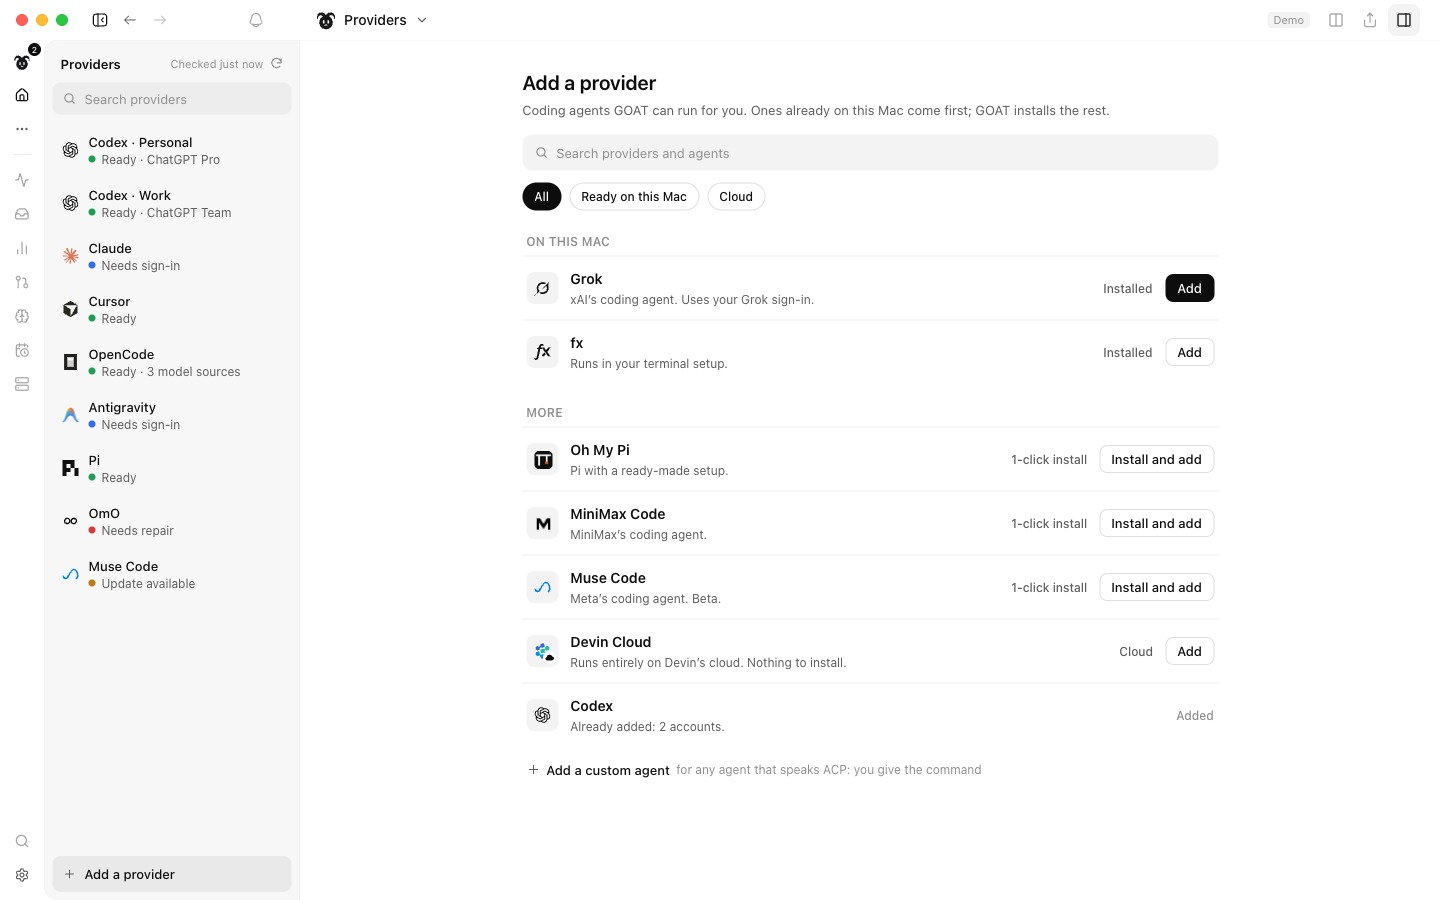
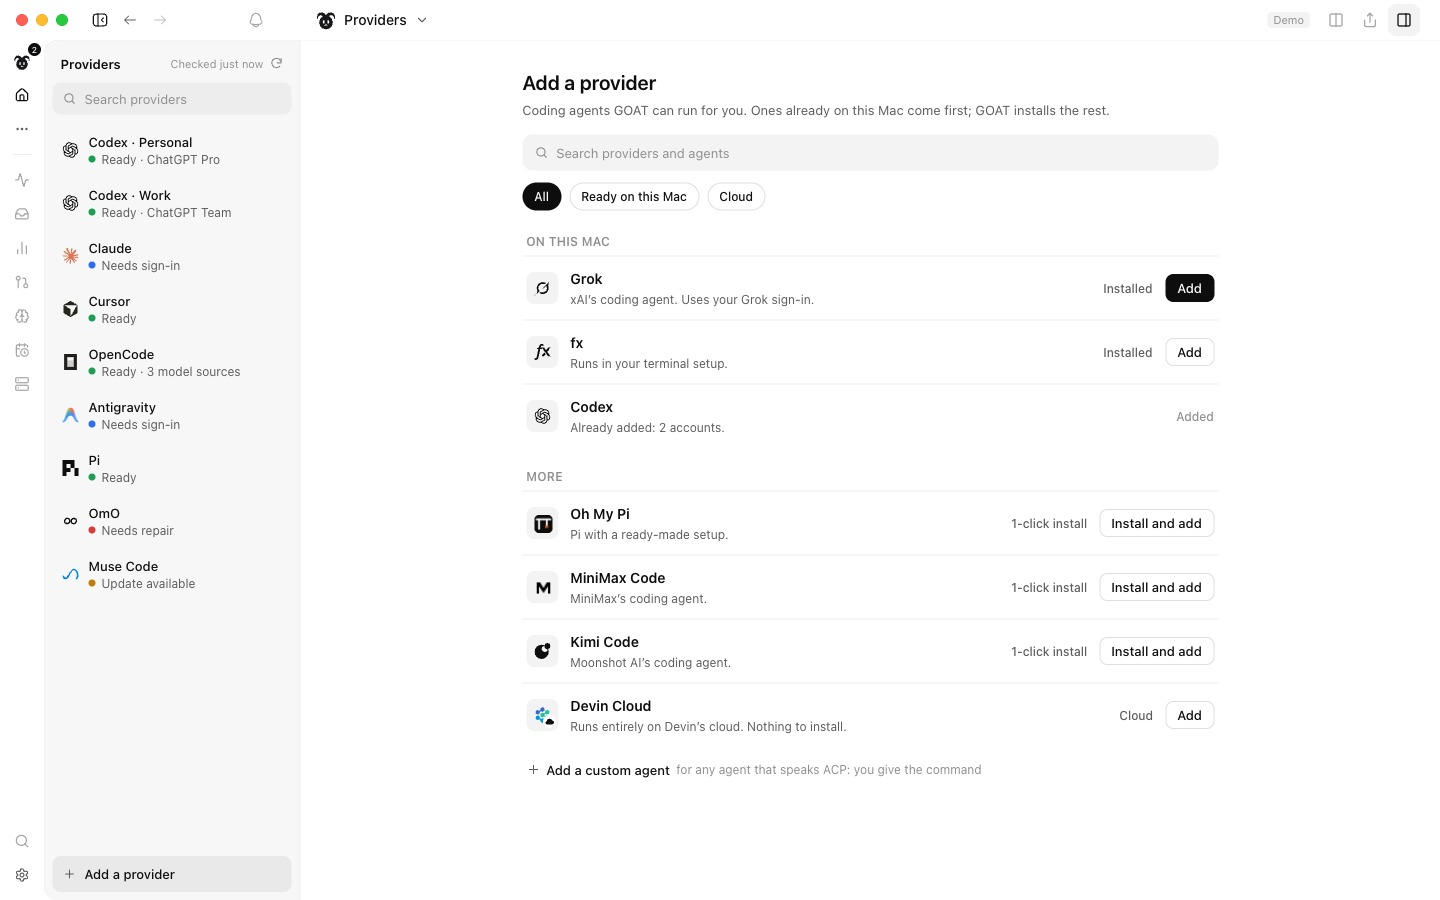
design: P3 catalog lists only not-added agents under More (Kimi Code replaces Muse Code); added Codex row moves to On this Mac

diff --git a/design/paper/part2/1QAN-2.jsx b/design/paper/part2/1QAN-2.jsx
@@ -518,6 +518,28 @@
                       </div>
                     </div>
                   </div>
+                  <div style={{ alignItems: 'center', borderTopColor: '#F0F0F0', borderTopStyle: 'solid', borderTopWidth: '1px', boxSizing: 'border-box', display: 'flex', gap: '12px', paddingBlock: '12px', paddingInline: '4px' }}>
+                    <div style={{ alignItems: 'center', backgroundColor: '#F3F3F3', borderRadius: '8px', boxSizing: 'border-box', display: 'flex', flexShrink: '0', height: '32px', justifyContent: 'center', width: '32px' }}>
+                      <div style={{ boxSizing: 'border-box', display: 'flex', flexShrink: 0, height: '16px', width: '16px' }}>
+                        <div style={{ alignItems: 'center', borderRadius: '4px', boxSizing: 'border-box', display: 'flex', flexShrink: '0', height: '16px', justifyContent: 'center', width: '16px' }}>
+                          <svg aria-hidden="true" viewBox="100 100 411 411" width="16" height="16" xmlns="http://www.w3.org/2000/svg" style={{ width: '16px', height: '16px', flexShrink: '0', display: 'inline-block' }}>
+                            <path fillRule="evenodd" clipRule="evenodd" d="M252.794 108.802C289.191 99.048 326.265 110.305 351.148 135.135C385.113 126.072 422.85 134.862 449.492 161.505C476.136 188.149 484.925 225.888 475.862 259.85V259.854C500.696 284.735 511.95 321.81 502.198 358.207C492.447 394.602 464.161 421.084 430.215 430.217C421.083 464.162 394.603 492.448 358.206 502.199C321.812 511.951 284.734 500.693 259.852 475.864C225.887 484.927 188.15 476.137 161.507 449.495C134.864 422.851 126.073 385.111 135.136 351.149C110.304 326.266 99.05 289.192 108.801 252.795C118.552 216.4 146.84 189.918 180.784 180.785C189.917 146.841 216.396 118.553 252.794 108.802ZM374.292 407.145C374.292 411.271 372.092 415.086 368.517 417.148L283.723 466.102C302.487 480.585 327.555 486.459 352.217 479.852C386.997 470.532 410.068 439.312 410.555 405.006V317.717C410.555 315.08 409.125 312.621 406.843 311.303L374.292 292.509V407.145ZM251.868 415.897C248.296 417.959 243.893 417.959 240.317 415.897L155.526 366.942C152.366 390.436 159.811 415.08 177.866 433.136H177.863C203.325 458.594 241.896 462.962 271.85 446.232L347.449 402.586C349.735 401.268 351.148 398.8 351.148 396.163V358.579L251.868 415.897ZM368.602 220.628C366.319 219.309 363.474 219.318 361.191 220.637L328.641 239.431L427.921 296.749C431.496 298.811 433.697 302.627 433.697 306.752V404.661C455.622 395.654 473.244 376.881 479.851 352.218C489.169 317.442 473.668 281.85 444.201 264.274L368.602 220.628ZM177.303 206.34C155.377 215.348 137.756 234.122 131.148 258.783C121.832 293.561 137.331 329.153 166.799 346.727L242.398 390.373C244.68 391.692 247.525 391.684 249.807 390.366L282.357 371.572L183.078 314.253C179.504 312.189 177.303 308.375 177.303 304.251V206.34ZM259.849 279.145V331.858L305.5 358.213L351.15 331.858V279.145L305.5 252.789L259.849 279.145ZM327.276 144.9C308.512 130.418 283.445 124.543 258.782 131.15C224.002 140.471 200.931 171.691 200.445 205.995V293.286C200.445 295.923 201.875 298.381 204.158 299.7L236.707 318.493V203.856C236.707 199.731 238.909 195.916 242.483 193.853L327.276 144.9ZM433.137 177.867C407.675 152.407 369.103 148.038 339.149 164.769L263.55 208.415C261.265 209.734 259.852 212.202 259.852 214.838V252.423L359.132 195.105C362.703 193.041 367.108 193.041 370.682 195.105L455.473 244.06C458.635 220.567 451.189 195.922 433.135 177.867H433.137Z" fill="#0D0D0D" />
+                          </svg>
+                        </div>
+                      </div>
+                    </div>
+                    <div style={{ boxSizing: 'border-box', display: 'flex', flexBasis: '0%', flexDirection: 'column', flexGrow: '1', gap: '2px' }}>
+                      <div style={{ boxSizing: 'border-box', color: '#0D0D0D', fontFamily: '"SF Pro", system-ui, sans-serif', fontSize: '14px', fontVariationSettings: '"wght" 600', fontWeight: 600, lineHeight: '20px' }}>
+                        Codex
+                      </div>
+                      <div style={{ boxSizing: 'border-box', color: '#5D5D5D', fontFamily: '"SF Pro", system-ui, sans-serif', fontSize: '12px', lineHeight: '17px' }}>
+                        Already added: 2 accounts.
+                      </div>
+                    </div>
+                    <div style={{ boxSizing: 'border-box', color: '#8F8F8F', fontFamily: '"SF Pro", system-ui, sans-serif', fontSize: '12px', fontVariationSettings: '"wght" 500', fontWeight: 500, lineHeight: '17px' }}>
+                      Added
+                    </div>
+                  </div>
                 </div>
                 <div style={{ boxSizing: 'border-box', marginTop: '14px' }}>
                   <div style={{ boxSizing: 'border-box', paddingBlock: '6px', paddingInline: '4px' }}>
@@ -573,23 +595,16 @@
                   </div>
                   <div style={{ alignItems: 'center', borderTopColor: '#F0F0F0', borderTopStyle: 'solid', borderTopWidth: '1px', boxSizing: 'border-box', display: 'flex', gap: '12px', paddingBlock: '12px', paddingInline: '4px' }}>
                     <div style={{ alignItems: 'center', backgroundColor: '#F3F3F3', borderRadius: '8px', boxSizing: 'border-box', display: 'flex', flexShrink: '0', height: '32px', justifyContent: 'center', width: '32px' }}>
-                      <div style={{ boxSizing: 'border-box', display: 'flex', flexShrink: 0, height: '16px', width: '16px' }}>
-                        <div style={{ alignItems: 'center', borderRadius: '4px', boxSizing: 'border-box', display: 'flex', flexShrink: '0', height: '16px', justifyContent: 'center', width: '16px' }}>
-                          <svg aria-hidden="true" viewBox="0 0 287.56 191" width="16" height="16" xmlns="http://www.w3.org/2000/svg" style={{ width: '16px', height: '16px', flexShrink: '0', display: 'inline-block' }}>
-                            <defs fill="#0081fb"><linearGradient id="_2MSC-2__h2yuw80" x1="61" y1="117" x2="259" y2="127" gradientUnits="userSpaceOnUse" fill="#0081fb"><stop offset="0" stopColor="#0064e1" fill="#0081fb" /><stop offset="0.4" stopColor="#0064e1" fill="#0081fb" /><stop offset="0.83" stopColor="#0073ee" fill="#0081fb" /><stop offset="1" stopColor="#0082fb" fill="#0081fb" /></linearGradient><linearGradient id="_2MSC-2__h2yuw81" x1="45" y1="139" x2="45" y2="66" gradientUnits="userSpaceOnUse" fill="#0081fb"><stop offset="0" stopColor="#0082fb" fill="#0081fb" /><stop offset="1" stopColor="#0064e0" fill="#0081fb" /></linearGradient></defs>
-                            <path d="m31.06,125.96c0,10.98 2.41,19.41 5.56,24.51 4.13,6.68 10.29,9.51 16.57,9.51 8.1,0 15.51-2.01 29.79-21.76 11.44-15.83 24.92-38.05 33.99-51.98l15.36-23.6c10.67-16.39 23.02-34.61 37.18-46.96 11.56-10.08 24.03-15.68 36.58-15.68 21.07,0 41.14,12.21 56.5,35.11 16.81,25.08 24.97,56.67 24.97,89.27 0,19.38-3.82,33.62-10.32,44.87-6.28,10.88-18.52,21.75-39.11,21.75l0-31.02c17.63,0 22.03-16.2 22.03-34.74 0-26.42-6.16-55.74-19.73-76.69-9.63-14.86-22.11-23.94-35.84-23.94-14.85,0-26.8,11.2-40.23,31.17-7.14,10.61-14.47,23.54-22.7,38.13l-9.06,16.05c-18.2,32.27-22.81,39.62-31.91,51.75-15.95,21.24-29.57,29.29-47.5,29.29-21.27,0-34.72-9.21-43.05-23.09-6.8-11.31-10.14-26.15-10.14-43.06z" fill="#0081FB" />
-                            <path d="m24.49,37.3c14.24-21.95 34.79-37.3 58.36-37.3 13.65,0 27.22,4.04 41.39,15.61 15.5,12.65 32.02,33.48 52.63,67.81l7.39,12.32c17.84,29.72 27.99,45.01 33.93,52.22 7.64,9.26 12.99,12.02 19.94,12.02 17.63,0 22.03-16.2 22.03-34.74l27.4-.86c0,19.38-3.82,33.62-10.32,44.87-6.28,10.88-18.52,21.75-39.11,21.75-12.8,0-24.14-2.78-36.68-14.61-9.64-9.08-20.91-25.21-29.58-39.71l-25.79-43.08c-12.94-21.62-24.81-37.74-31.68-45.04-7.39-7.85-16.89-17.33-32.05-17.33-12.27,0-22.69,8.61-31.41,21.78z" fill="url(#_2MSC-2__h2yuw80)" />
-                            <path d="m82.35,31.23c-12.27,0-22.69,8.61-31.41,21.78-12.33,18.61-19.88,46.33-19.88,72.95 0,10.98 2.41,19.41 5.56,24.51l-26.48,17.44c-6.8-11.31-10.14-26.15-10.14-43.06 0-30.75 8.44-62.8 24.49-87.55 14.24-21.95 34.79-37.3 58.36-37.3z" fill="url(#_2MSC-2__h2yuw81)" />
-                          </svg>
-                        </div>
-                      </div>
+                      <svg width="16" height="16" viewBox="0 0 24 24" xmlns="http://www.w3.org/2000/svg" style={{ display: 'inline-block', flexShrink: 0 }}>
+                        <path d="M19.514 7.342C19.711 7.862 19.814 8.413 19.816 8.969C19.816 12.494 15.998 14.697 12.946 12.934C11.529 12.116 10.657 10.605 10.657 8.969C10.657 5.646 14.085 3.431 17.115 4.793C15.26 3.373 12.99 2.607 10.655 2.612C4.772 2.614 0.005 7.381 0 13.265C0.002 19.148 4.772 23.918 10.655 23.92C16.538 23.916 21.306 19.147 21.31 13.265C21.312 11.155 20.687 9.095 19.514 7.342ZM14.841 4.666C14.841 8.191 18.657 10.395 21.709 8.632C23.127 7.814 24 6.302 24 4.666C24 1.14 20.184-1.061 17.13 0.699C15.714 1.519 14.841 3.03 14.841 4.666" fill="#0D0D0D" />
+                      </svg>
                     </div>
                     <div style={{ boxSizing: 'border-box', display: 'flex', flexBasis: '0%', flexDirection: 'column', flexGrow: '1', gap: '2px' }}>
                       <div style={{ boxSizing: 'border-box', color: '#0D0D0D', fontFamily: '"SF Pro", system-ui, sans-serif', fontSize: '14px', fontVariationSettings: '"wght" 600', fontWeight: 600, lineHeight: '20px' }}>
-                        Muse Code
+                        Kimi Code
                       </div>
                       <div style={{ boxSizing: 'border-box', color: '#5D5D5D', fontFamily: '"SF Pro", system-ui, sans-serif', fontSize: '12px', lineHeight: '17px' }}>
-                        Meta’s coding agent. Beta.
+                        Moonshot AI’s coding agent.
                       </div>
                     </div>
                     <div style={{ boxSizing: 'border-box', color: '#5D5D5D', fontFamily: '"SF Pro", system-ui, sans-serif', fontSize: '12px', fontVariationSettings: '"wght" 500', fontWeight: 500, lineHeight: '17px' }}>
@@ -633,28 +648,6 @@
                       <div style={{ boxSizing: 'border-box', color: '#0D0D0D', fontFamily: '"SF Pro", system-ui, sans-serif', fontSize: '13px', fontVariationSettings: '"wght" 500', fontWeight: 500, lineHeight: '16px' }}>
                         Add
                       </div>
-                    </div>
-                  </div>
-                  <div style={{ alignItems: 'center', borderTopColor: '#F0F0F0', borderTopStyle: 'solid', borderTopWidth: '1px', boxSizing: 'border-box', display: 'flex', gap: '12px', paddingBlock: '12px', paddingInline: '4px' }}>
-                    <div style={{ alignItems: 'center', backgroundColor: '#F3F3F3', borderRadius: '8px', boxSizing: 'border-box', display: 'flex', flexShrink: '0', height: '32px', justifyContent: 'center', width: '32px' }}>
-                      <div style={{ boxSizing: 'border-box', display: 'flex', flexShrink: 0, height: '16px', width: '16px' }}>
-                        <div style={{ alignItems: 'center', borderRadius: '4px', boxSizing: 'border-box', display: 'flex', flexShrink: '0', height: '16px', justifyContent: 'center', width: '16px' }}>
-                          <svg aria-hidden="true" viewBox="100 100 411 411" width="16" height="16" xmlns="http://www.w3.org/2000/svg" style={{ width: '16px', height: '16px', flexShrink: '0', display: 'inline-block' }}>
-                            <path fillRule="evenodd" clipRule="evenodd" d="M252.794 108.802C289.191 99.048 326.265 110.305 351.148 135.135C385.113 126.072 422.85 134.862 449.492 161.505C476.136 188.149 484.925 225.888 475.862 259.85V259.854C500.696 284.735 511.95 321.81 502.198 358.207C492.447 394.602 464.161 421.084 430.215 430.217C421.083 464.162 394.603 492.448 358.206 502.199C321.812 511.951 284.734 500.693 259.852 475.864C225.887 484.927 188.15 476.137 161.507 449.495C134.864 422.851 126.073 385.111 135.136 351.149C110.304 326.266 99.05 289.192 108.801 252.795C118.552 216.4 146.84 189.918 180.784 180.785C189.917 146.841 216.396 118.553 252.794 108.802ZM374.292 407.145C374.292 411.271 372.092 415.086 368.517 417.148L283.723 466.102C302.487 480.585 327.555 486.459 352.217 479.852C386.997 470.532 410.068 439.312 410.555 405.006V317.717C410.555 315.08 409.125 312.621 406.843 311.303L374.292 292.509V407.145ZM251.868 415.897C248.296 417.959 243.893 417.959 240.317 415.897L155.526 366.942C152.366 390.436 159.811 415.08 177.866 433.136H177.863C203.325 458.594 241.896 462.962 271.85 446.232L347.449 402.586C349.735 401.268 351.148 398.8 351.148 396.163V358.579L251.868 415.897ZM368.602 220.628C366.319 219.309 363.474 219.318 361.191 220.637L328.641 239.431L427.921 296.749C431.496 298.811 433.697 302.627 433.697 306.752V404.661C455.622 395.654 473.244 376.881 479.851 352.218C489.169 317.442 473.668 281.85 444.201 264.274L368.602 220.628ZM177.303 206.34C155.377 215.348 137.756 234.122 131.148 258.783C121.832 293.561 137.331 329.153 166.799 346.727L242.398 390.373C244.68 391.692 247.525 391.684 249.807 390.366L282.357 371.572L183.078 314.253C179.504 312.189 177.303 308.375 177.303 304.251V206.34ZM259.849 279.145V331.858L305.5 358.213L351.15 331.858V279.145L305.5 252.789L259.849 279.145ZM327.276 144.9C308.512 130.418 283.445 124.543 258.782 131.15C224.002 140.471 200.931 171.691 200.445 205.995V293.286C200.445 295.923 201.875 298.381 204.158 299.7L236.707 318.493V203.856C236.707 199.731 238.909 195.916 242.483 193.853L327.276 144.9ZM433.137 177.867C407.675 152.407 369.103 148.038 339.149 164.769L263.55 208.415C261.265 209.734 259.852 212.202 259.852 214.838V252.423L359.132 195.105C362.703 193.041 367.108 193.041 370.682 195.105L455.473 244.06C458.635 220.567 451.189 195.922 433.135 177.867H433.137Z" fill="#0D0D0D" />
-                          </svg>
-                        </div>
-                      </div>
-                    </div>
-                    <div style={{ boxSizing: 'border-box', display: 'flex', flexBasis: '0%', flexDirection: 'column', flexGrow: '1', gap: '2px' }}>
-                      <div style={{ boxSizing: 'border-box', color: '#0D0D0D', fontFamily: '"SF Pro", system-ui, sans-serif', fontSize: '14px', fontVariationSettings: '"wght" 600', fontWeight: 600, lineHeight: '20px' }}>
-                        Codex
-                      </div>
-                      <div style={{ boxSizing: 'border-box', color: '#5D5D5D', fontFamily: '"SF Pro", system-ui, sans-serif', fontSize: '12px', lineHeight: '17px' }}>
-                        Already added: 2 accounts.
-                      </div>
-                    </div>
-                    <div style={{ boxSizing: 'border-box', color: '#8F8F8F', fontFamily: '"SF Pro", system-ui, sans-serif', fontSize: '12px', fontVariationSettings: '"wght" 500', fontWeight: 500, lineHeight: '17px' }}>
-                      Added
                     </div>
                   </div>
                 </div>
